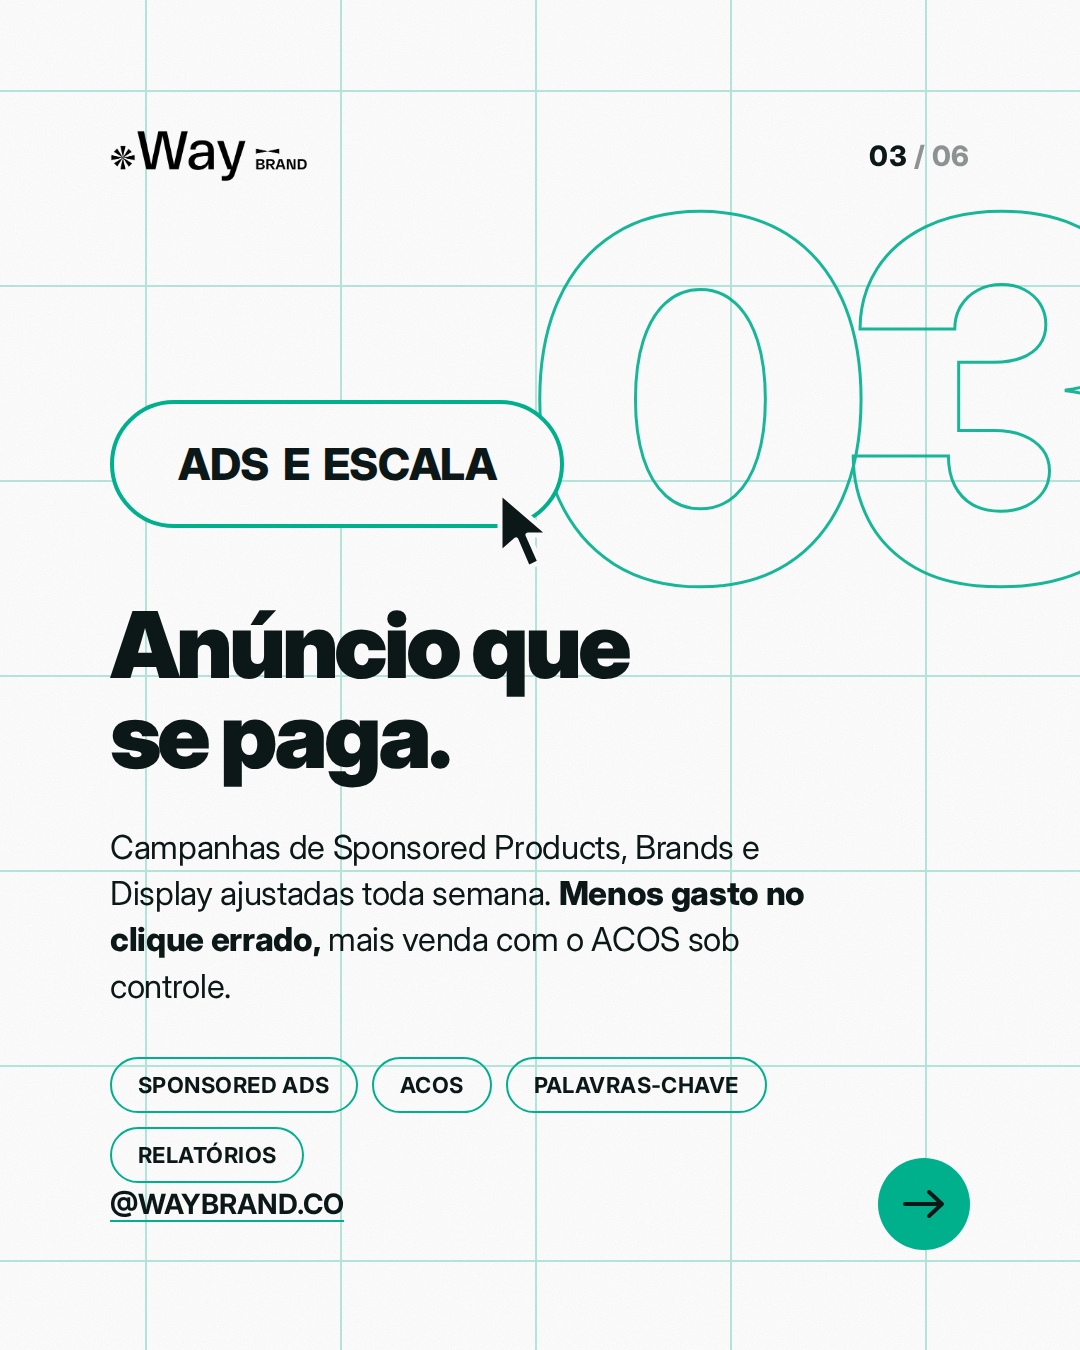
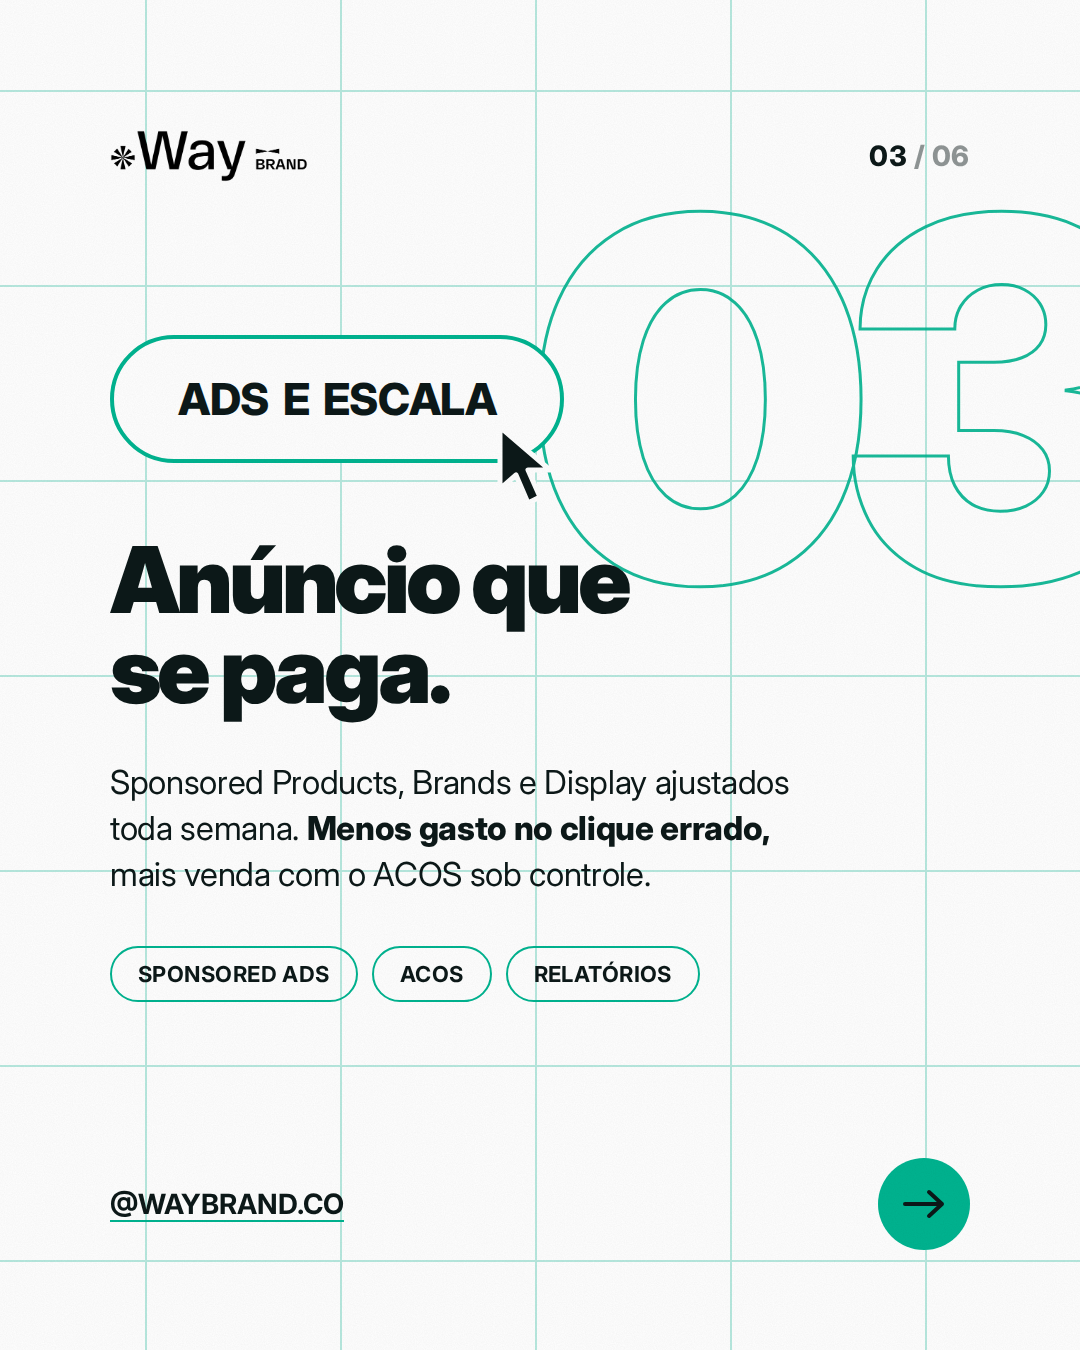
Carrossel services: espaço fixo entre os chips e o rodapé em todos os slides
Claude-Session: https://claude.ai/code/session_016sUdgHHfxU1Scirg6wMBYZ

diff --git a/instagram/waybrand-services/slides.html b/instagram/waybrand-services/slides.html
@@ -68,8 +68,8 @@
       p:'Módulos, imagens e comparativos que mostram o produto em uso e <b>respondem a dúvida antes dela virar devolução.</b>',
       c:['A+ básico','A+ Premium','Imagens','Copy'] },
     { k:'branco', b:'Ads e escala', h:'Anúncio que<br>se paga.',
-      p:'Campanhas de Sponsored Products, Brands e Display ajustadas toda semana. <b>Menos gasto no clique errado,</b> mais venda com o ACOS sob controle.',
-      c:['Sponsored Ads','ACOS','Palavras-chave','Relatórios'] },
+      p:'Sponsored Products, Brands e Display ajustados toda semana. <b>Menos gasto no clique errado,</b> mais venda com o ACOS sob controle.',
+      c:['Sponsored Ads','ACOS','Relatórios'] },
     { k:'verde',  b:'Store oficial', h:'Sua loja dentro<br>da Amazon.',
       p:'Uma vitrine com a sua cara e toda a sua linha num lugar só. O cliente entra por um produto e <b>sai conhecendo a marca.</b>',
       c:['Brand Store','Vitrine','Coleções'] },
@@ -104,11 +104,18 @@
     document.querySelectorAll('.slide').forEach(sl => {
       const btn = sl.querySelector('.btn'), cur = sl.querySelector('.cursor'), h = sl.querySelector('.h'),
             p = sl.querySelector('.p'), chips = sl.querySelector('.chips');
-      // cursor clicando no canto direito do botão
-      cur.style.left = (110 + btn.offsetWidth - 70) + 'px'; cur.style.top = (400 + btn.offsetHeight - 40) + 'px';
-      const hb = h.offsetTop + h.offsetHeight;
-      p.style.top = (hb + 44) + 'px';
-      chips.style.top = (hb + 44 + p.offsetHeight + 48) + 'px';
+      // empilha botão, frase, texto e chips; se os chips chegarem perto do rodapé, sobe o bloco todo
+      const foot = sl.querySelector('.foot'), gap = 110;
+      const place = top => {
+        btn.style.top = top + 'px'; h.style.top = (top + 200) + 'px';
+        cur.style.left = (110 + btn.offsetWidth - 70) + 'px'; cur.style.top = (top + btn.offsetHeight - 40) + 'px';
+        const hb = h.offsetTop + h.offsetHeight;
+        p.style.top = (hb + 44) + 'px';
+        chips.style.top = (hb + 44 + p.offsetHeight + 48) + 'px';
+        return chips.offsetTop + chips.offsetHeight;
+      };
+      const over = place(335) - (foot.offsetTop - gap);
+      if (over > 0) place(335 - over);
     });
     document.body.dataset.ready = '1';
   });
